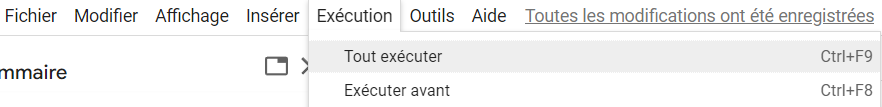
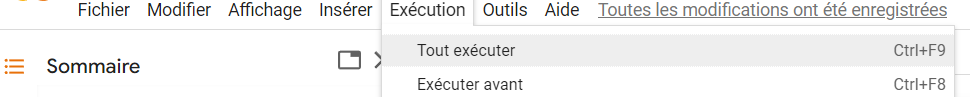
Update info

diff --git a/bulkhours/math/__init__.py b/bulkhours/math/__init__.py
@@ -40,9 +40,9 @@ Merci beaucoup de reporter les erreurs à <A HREF="mailto:guillaume.therin@ipsa.
       <td colspan="4"style="background-color: white; text-align:left; color:black">{text2}</td>
 </tr>
     <tr>
-      <td colspan="2"style="background-color: white; text-align:left; color:black">⚠Si vous voulez quand même continuer, allez dans l'onglet <b>"Execution"</b> et cliquez sur <b>"Tout exécuter"</b>, avant de pouvoir parcourir cette page.⚠</td>
-      <td colspan="2"style="background-color: white; text-align:left; color:black">
-<img style="background-color: white; border: 5px solid #4F77AA; text-align: center;" src="https://github.com/guydegnol/bulkhours/blob/main/data/passive_menu.png?raw=true" width="500">
+      <td style="background-color: white; text-align:left; color:black">⚠Si vous voulez quand même continuer, allez dans l'onglet <b>"Execution"</b> et cliquez sur <b>"Tout exécuter"</b>, avant de pouvoir parcourir cette page.⚠</td>
+      <td colspan="3" style="background-color: white; text-align:left; color:black">
+<img style="background-color: white; border: 5px solid #4F77AA; text-align: center;" src="https://github.com/guydegnol/bulkhours/blob/main/data/passive_menu.png?raw=true" width="800">
       </td>
 </tr>
 </table>
